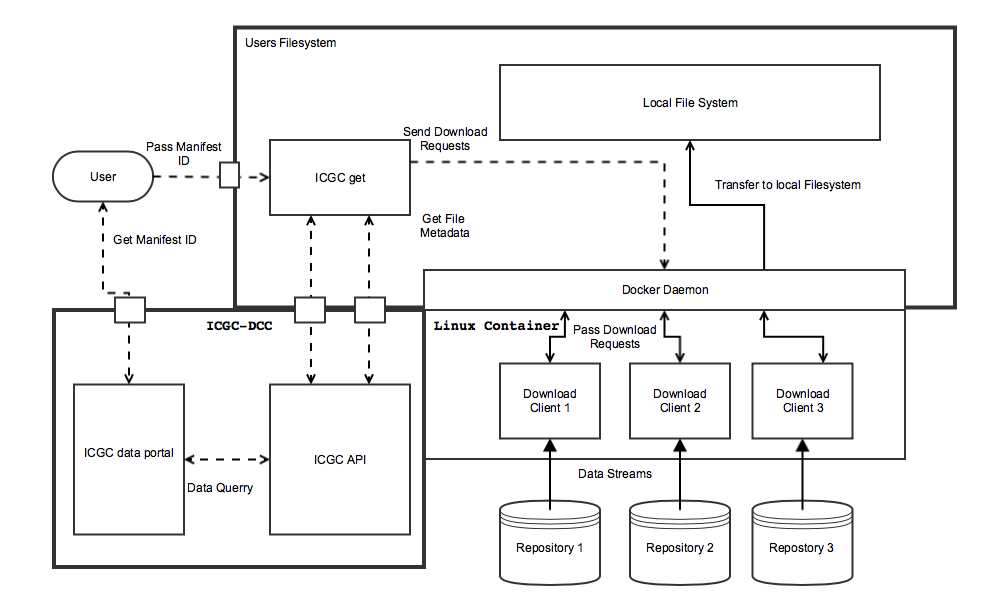
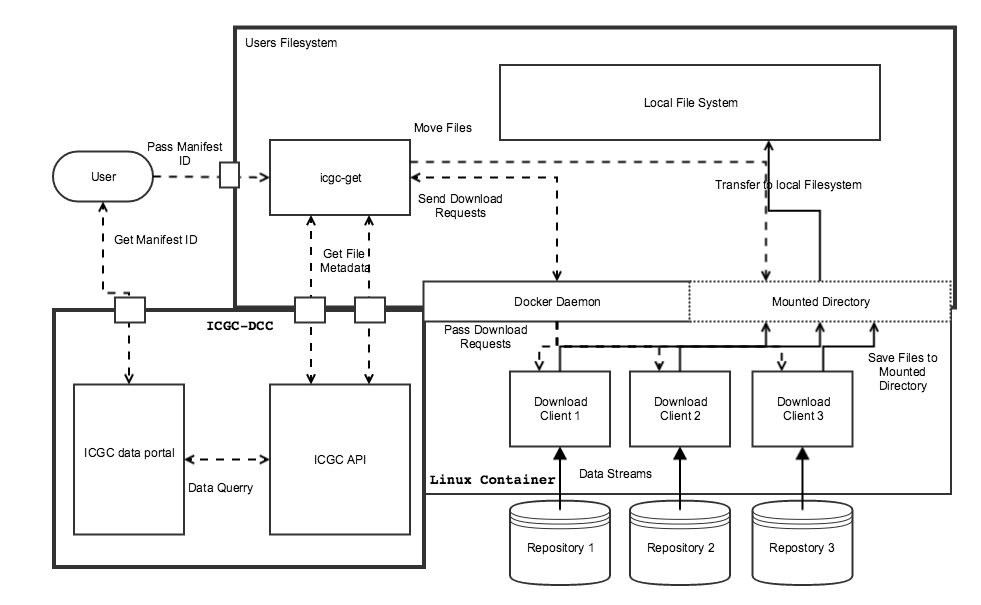
Deployed 9d877ab with MkDocs version: 0.15.3

diff --git a/cloud/guide/index.html b/cloud/guide/index.html
@@ -782,7 +782,7 @@
 <p><a href="../images/process-diagram.png" title="Click Cloud Process Diagram to see the full image."><img alt="Cloud Process Diagram" src="../images/process-diagram.png" /></a></p>
 <p>The subsequent sections will provide additional details on each of these topics.</p>
 <h3 id="security">Security</h3>
-<p>The usage of the distributed <a href="https://dcc.icgc.org/software">Storage Client</a> is required to provide additional security while operating in participating cloud environments and to enhance user download speeds.</p>
+<p>The usage of the distributed <a href="../../software/binaries">Storage Client</a> is required to provide additional security while operating in participating cloud environments and to enhance user download speeds.</p>
 <h4 id="aws">AWS</h4>
 <p>Security is enforced by a coordinating ICGC storage server. The client communicates with the server which brokers downloads and converts ICGC Access Tokens into Amazon <a href="http://docs.aws.amazon.com/AmazonS3/latest/dev/ShareObjectPreSignedURL.html">pre-signed urls</a>. Once a successful authorization handshake between the client and the server is established, downloads will be transferred directly from <em>S3</em> to the client, maintaining fast access to the data.</p>
 <p>It is important to note that the provided software only functions within the <code>us-east-1</code> EC2 region of AWS located in Northern Virginia, U.S. where the data is physically stored. Attempting to use the software outside of this region will be denied data access.</p>
@@ -828,12 +828,12 @@
 <h2 id="installation">Installation</h2>
 <p>This section describes how to install the Storage Client. The are two options: (a) from a tarball and (b) from a Docker image hosted on Dockerhub.</p>
 <h3 id="install-from-tarball">Install from Tarball</h3>
-<p>To begin using the Storage Client, the first step is to download the distribution. The latest version can be downloaded from <a href="https://dcc.icgc.org/software#storage-client">here</a>.</p>
+<p>To begin using the Storage Client, the first step is to download the distribution. The latest version can be downloaded from <a href="../../software/binaries#storage-client">here</a>.</p>
 <pre><code>wget -O icgc-storage-client.tar.gz https://dcc.icgc.org/api/v1/ui/software/icgc-storage-client/latest
 tar -xvzf icgc-storage-client.tar.gz
 </code></pre>
 
-<p>After untaring the archive, the Storage Client will be available at <code>bin/icgc-storage-client</code>. Steps to verify the authenticity and integrity of the download can be found on our <a href="https://dcc.icgc.org/software">software</a> page.</p>
+<p>After untaring the archive, the Storage Client will be available at <code>bin/icgc-storage-client</code>. Steps to verify the authenticity and integrity of the download can be found on our <a href="../../software/binaries">software</a> page.</p>
 <h3 id="install-from-docker-image">Install from Docker Image</h3>
 <p>We also support a Docker image of the Storage Client that is bundled with Java 8 for easy deployment.</p>
 <p>The image is hosted at <a href="https://hub.docker.com/r/icgc/icgc-storage-client/">https://hub.docker.com/r/icgc/icgc-storage-client/</a> and downloaded by issuing the following command:</p>

diff --git a/cloud/icgc-get/index.html b/cloud/icgc-get/index.html
@@ -685,7 +685,7 @@
                
                </li>
            
-               <li class=""><a href="#inernal-structure">Inernal Structure</a>
+               <li class=""><a href="#internal-structure">Internal Structure</a>
                
                     <ul class="nav">
                         
@@ -1069,12 +1069,15 @@ Clients:
  ICGC Storage Client Version: 1.0.13
 </code></pre>
 
-<h2 id="inernal-structure">Inernal Structure</h2>
+<h2 id="internal-structure">Internal Structure</h2>
 <p>Below are a pair of diagrams demonstrating the processes that <code>icgc-get</code> undergoes during it's operation.</p>
 <h3 id="icgc-get-environment-diagram"><code>icgc-get</code> Environment Diagram</h3>
-<p><a href="../images/ICGC_get_standard.png" title="Click on the image to see it in full"><img alt="" src="../images/ICGC_get_standard.png" /></a></p>
+<p><a href="../images/icgc_get_standard.png" title="Click on the image to see it in full"><img alt="" src="../images/icgc_get_standard.png" /></a></p>
+<p>In both modes of operation, icgc-get must be passed a manifest or file id that has been recived from the ICGC data portal.  This identifier is used by icgc-get to query more in-depth file metadata from the ICGC api.  This takes two calls to the api, and the gathered data is used to identify the client to call and how to execute the call. </p>
+<p>In the default orientation, all of the download clients are found in the user's file system.  This enables icgc-get to directly communicate with the download clients, and for the clients to directly place their output into the local filesystem.  </p>
 <h3 id="icgc-get-environment-diagram-using-docker"><code>icgc-get</code> Environment Diagram using Docker</h3>
-<p><a href="../images/ICGC_get_docker.png" title="Click on the image to see it in full"><img alt="" src="../images/ICGC_get_docker.png" /></a></p>
+<p><a href="../images/icgc_get_docker.png" title="Click on the image to see it in full"><img alt="" src="../images/icgc_get_docker.png" /></a></p>
+<p>However, when the client is run using docker, the download clients are no longer directly accessible, as they are in a separate Linux container.  To communicate with the download clients, icgc-get needs to use the Docker daemon as an intermediary.  Then, when the the clients finish downloading the files they are unable to directly place them into the local filesystem beacuse of the isolated nature of the Linux container.  They instead place them in a special mounted directory, which is shared between the Linux container and the local filesystem.  icgc-get is monitoring the Docker daemon for a signal that the download client has finished working, and upon that signal, moves all of the files in the mounted directory to their proper place in the local filesystem.   </p>
                </div>
                </div>
             </div>

diff --git a/cloud/repositories/index.html b/cloud/repositories/index.html
@@ -713,8 +713,8 @@
 <table>
 <thead>
 <tr>
-<th align="left"></th>
-<th>Properties</th>
+<th align="left">Property</th>
+<th>Value</th>
 </tr>
 </thead>
 <tbody>
@@ -748,8 +748,8 @@
 <table>
 <thead>
 <tr>
-<th align="left"></th>
-<th>Properties</th>
+<th align="left">Property</th>
+<th>Value</th>
 </tr>
 </thead>
 <tbody>
@@ -785,8 +785,8 @@
 <table>
 <thead>
 <tr>
-<th align="left"></th>
-<th>Properties</th>
+<th align="left">Property</th>
+<th>Value</th>
 </tr>
 </thead>
 <tbody>
@@ -813,8 +813,8 @@
 <table>
 <thead>
 <tr>
-<th align="left"></th>
-<th>Properties</th>
+<th align="left">Property</th>
+<th>Value</th>
 </tr>
 </thead>
 <tbody>
@@ -841,8 +841,8 @@
 <table>
 <thead>
 <tr>
-<th align="left"></th>
-<th>Properties</th>
+<th align="left">Property</th>
+<th>Value</th>
 </tr>
 </thead>
 <tbody>
@@ -886,8 +886,8 @@
 <table>
 <thead>
 <tr>
-<th align="left"></th>
-<th>Properties</th>
+<th align="left">Property</th>
+<th>Value</th>
 </tr>
 </thead>
 <tbody>
@@ -931,8 +931,8 @@
 <table>
 <thead>
 <tr>
-<th align="left"></th>
-<th>Properties</th>
+<th align="left">Property</th>
+<th>Value</th>
 </tr>
 </thead>
 <tbody>
@@ -962,8 +962,8 @@
 <table>
 <thead>
 <tr>
-<th align="left"></th>
-<th>Properties</th>
+<th align="left">Property</th>
+<th>Value</th>
 </tr>
 </thead>
 <tbody>
@@ -993,8 +993,8 @@
 <table>
 <thead>
 <tr>
-<th align="left"></th>
-<th>Properties</th>
+<th align="left">Property</th>
+<th>Value</th>
 </tr>
 </thead>
 <tbody>
@@ -1024,8 +1024,8 @@
 <table>
 <thead>
 <tr>
-<th align="left"></th>
-<th>Properties</th>
+<th align="left">Property</th>
+<th>Value</th>
 </tr>
 </thead>
 <tbody>
@@ -1055,8 +1055,8 @@
 <table>
 <thead>
 <tr>
-<th align="left"></th>
-<th>Properties</th>
+<th align="left">Property</th>
+<th>Value</th>
 </tr>
 </thead>
 <tbody>
@@ -1086,8 +1086,8 @@
 <table>
 <thead>
 <tr>
-<th align="left"></th>
-<th>Properties</th>
+<th align="left">Property</th>
+<th>Value</th>
 </tr>
 </thead>
 <tbody>
@@ -1117,8 +1117,8 @@
 <table>
 <thead>
 <tr>
-<th align="left"></th>
-<th>Properties</th>
+<th align="left">Property</th>
+<th>Value</th>
 </tr>
 </thead>
 <tbody>
@@ -1148,8 +1148,8 @@
 <table>
 <thead>
 <tr>
-<th align="left"></th>
-<th>Properties</th>
+<th align="left">Property</th>
+<th>Value</th>
 </tr>
 </thead>
 <tbody>
@@ -1181,8 +1181,8 @@
 <table>
 <thead>
 <tr>
-<th align="left"></th>
-<th>Properties</th>
+<th align="left">Property</th>
+<th>Value</th>
 </tr>
 </thead>
 <tbody>

diff --git a/portal/repositories/index.html b/portal/repositories/index.html
@@ -762,7 +762,7 @@
 <p><a href="../images/file-entity-iobio.png" title="Click on the image to see it in full"><img alt="" src="../images/file-entity-iobio.png" /></a></p>
 <h3 id="manifests">Manifests</h3>
 <p>After a user has identified the project files they are interested in, using download clients will be necessary to actually retrieve the data from their host repositories. There are currently two different manifest file formats in use at ICGC; XML manifests are specific to GNOS repositories and are used by the <a href="https://cghub.ucsc.edu/software/downloads.html">GeneTorrent transfer client</a>.</p>
-<p>Tab-delimited .txt manifest files are used for files that are located in the AWS-Virginia or Collaboratory repos and are used by the <a href="https://dcc.icgc.org/software">icgc-storage-client</a>.</p>
+<p>Tab-delimited .txt manifest files are used for files that are located in the AWS-Virginia or Collaboratory repos and are used by the <a href="../../software/binaries">icgc-storage-client</a>.</p>
 <p><em>Refer to the <a href="http://docs.icgc.org/cloud/guide/#compute-prerequisites">Cloud Guide</a> for important details about the pre-requisites necessary to access data in the AWS-Virginia and Collaboratory cloud repositories.</em></p>
 <p>A project file entity has a manifest for each repository it is hosted on, and can be downloaded on the <a href="./#file-copies">File Copies</a> section.</p>
 <p>If the situation occurs where more than one file is needed, the <strong>Download manifests</strong> button can be used to download the selected files all at once. If none are selected, all the files are included. The result would be a single Manifest file for each repository, containing all the files that belonged to that repository (and selected, if applicable).
